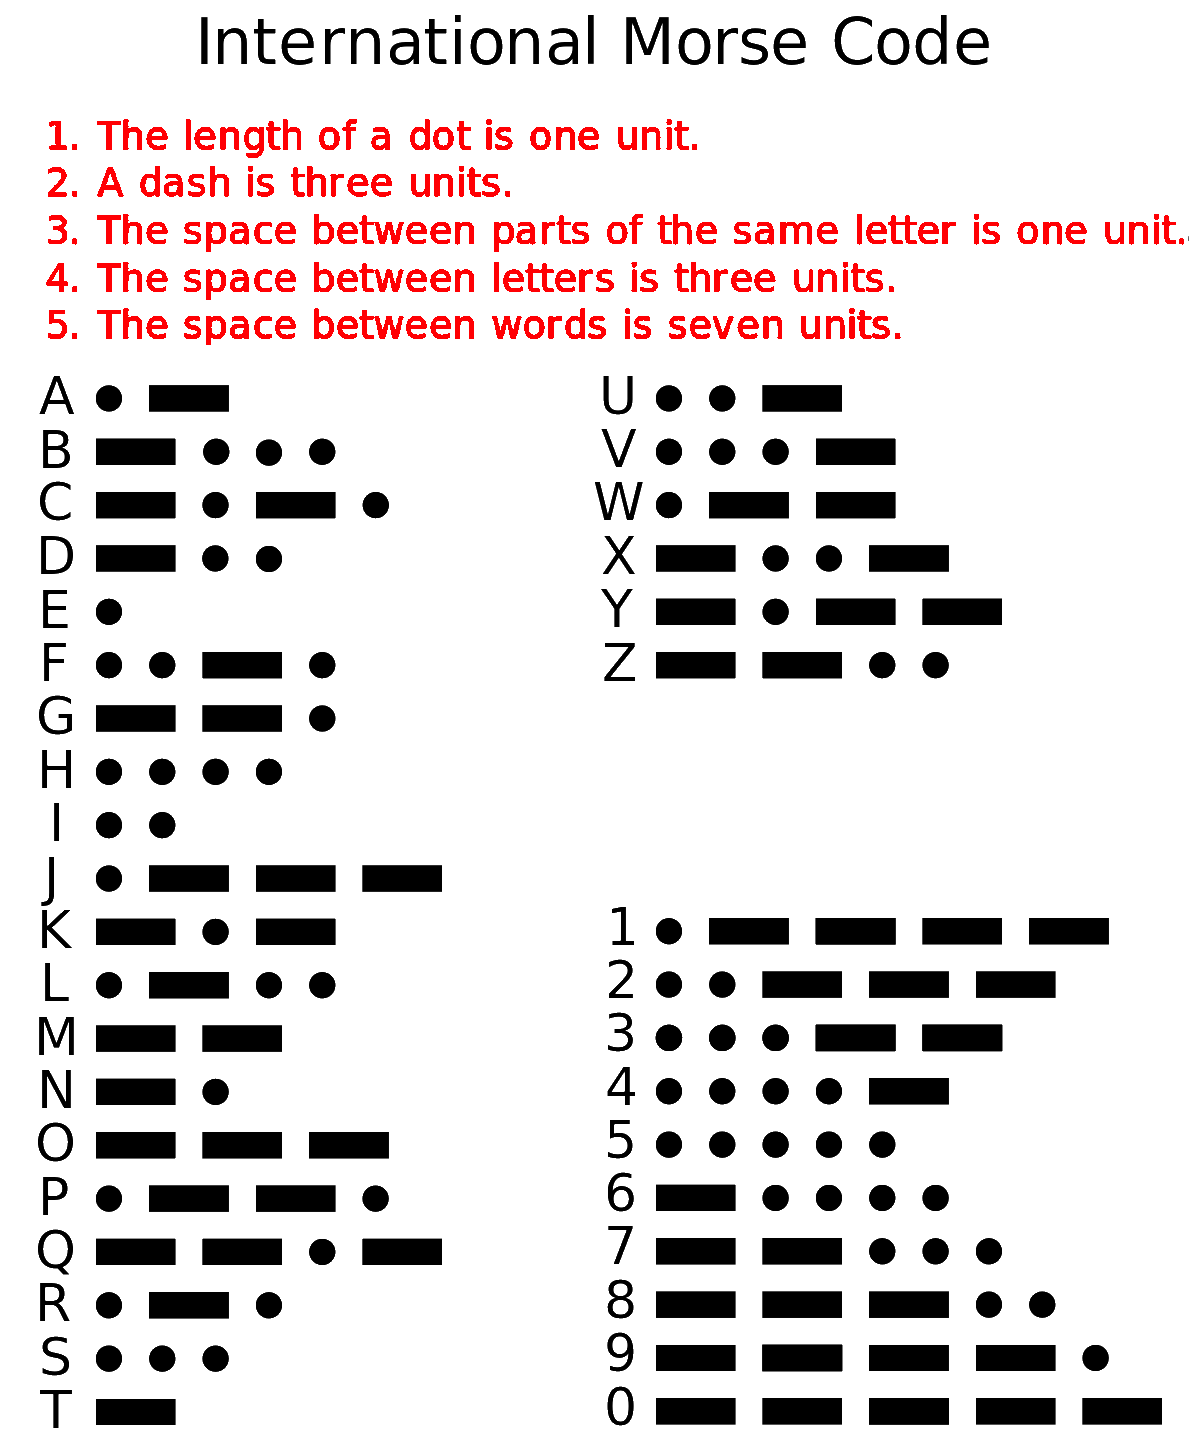
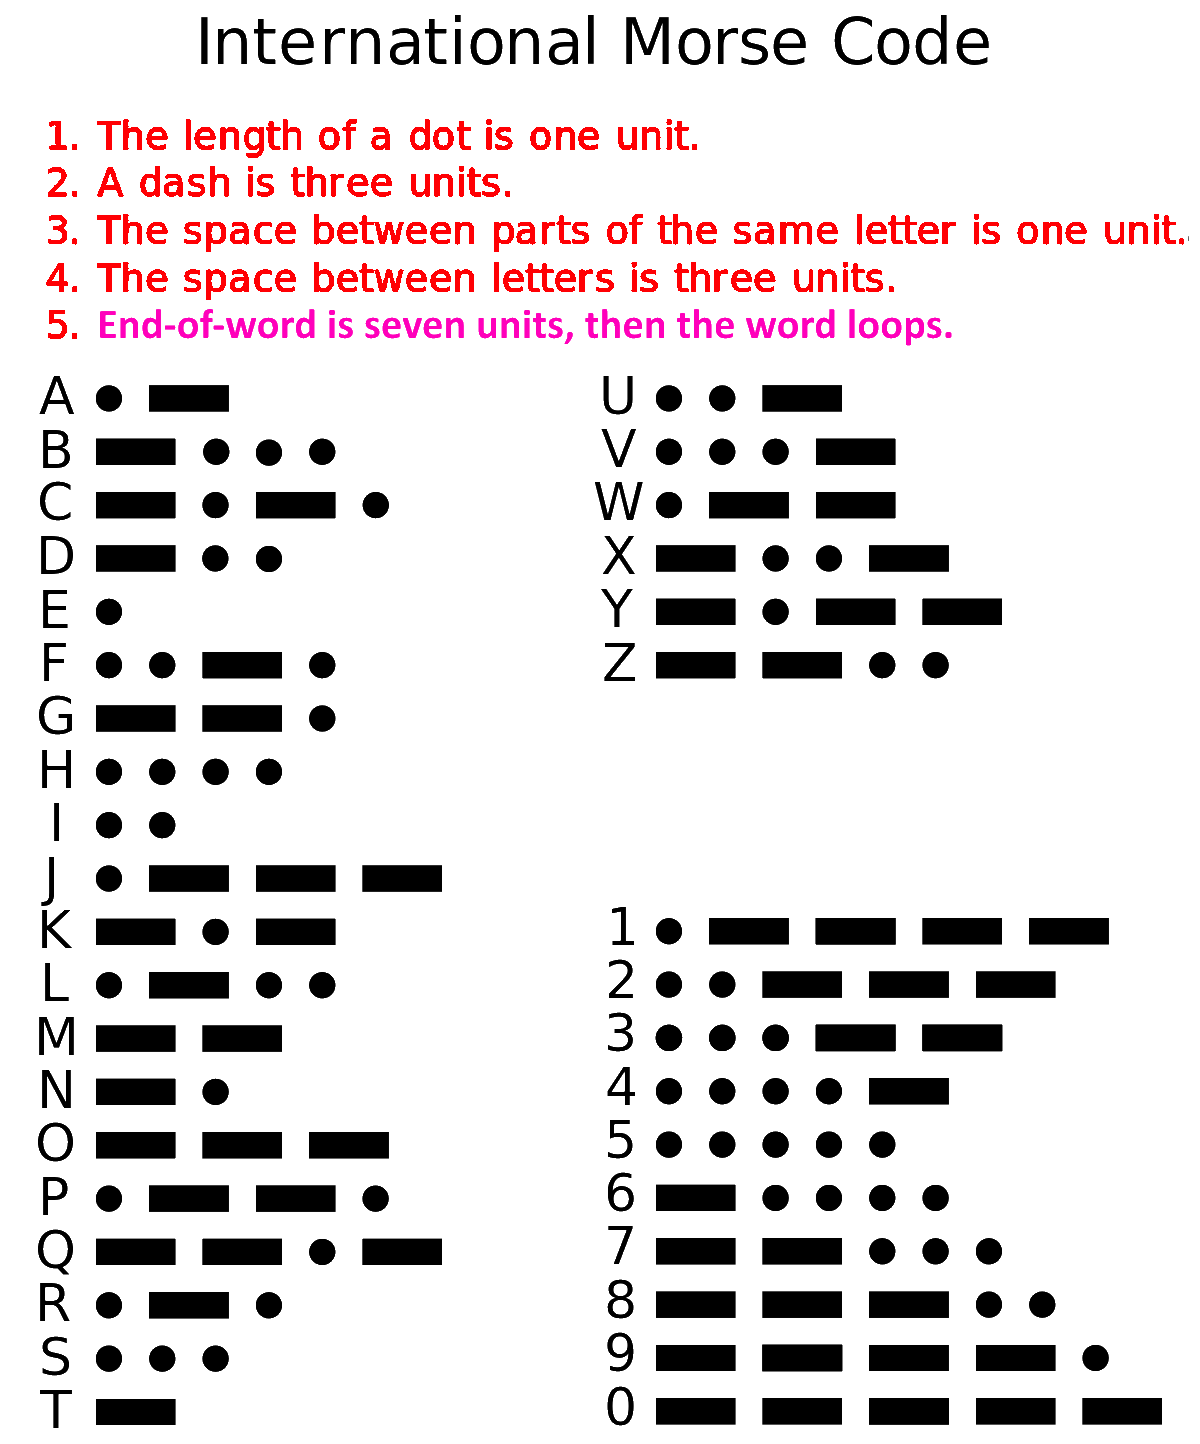
Update Morse code elements to be clearer
Infographic image changed text + color about purple end-of-word; added off gaps between the purple on; revealed number of letters in each word on the phone screens

Changed region(s): [[0.0617, 0.2181, 0.8017, 0.2493]]

diff --git a/Assets/MorseBlinkLoop.cs b/Assets/MorseBlinkLoop.cs
@@ -41,7 +41,8 @@ public class MorseBlinkLoop : MonoBehaviour
                 case "it":
                     yield return BlinkSequence(blinkerRenderer, blinkMaterialOn, blinkMaterialOff,
                         BLINK_DOT, BLINK_SPACE_LOCAL, BLINK_DOT, BLINK_SPACE_LETTERS,
-                        BLINK_DASH, BLINK_SPACE_REPEAT);
+                        BLINK_DASH,
+                        BLINK_SPACE_LETTERS, BLINK_SPACE_REPEAT, BLINK_SPACE_LETTERS);
                     break;
 
                 case "city":
@@ -49,7 +50,8 @@ public class MorseBlinkLoop : MonoBehaviour
                         BLINK_DASH, BLINK_SPACE_LOCAL, BLINK_DOT, BLINK_SPACE_LOCAL, BLINK_DASH, BLINK_SPACE_LOCAL, BLINK_DOT, BLINK_SPACE_LETTERS,
                         BLINK_DOT, BLINK_SPACE_LOCAL, BLINK_DOT, BLINK_SPACE_LETTERS,
                         BLINK_DASH, BLINK_SPACE_LETTERS,
-                        BLINK_DASH, BLINK_SPACE_LOCAL, BLINK_DOT, BLINK_SPACE_LOCAL, BLINK_DASH, BLINK_SPACE_LOCAL, BLINK_DASH, BLINK_SPACE_REPEAT);
+                        BLINK_DASH, BLINK_SPACE_LOCAL, BLINK_DOT, BLINK_SPACE_LOCAL, BLINK_DASH, BLINK_SPACE_LOCAL, BLINK_DASH,
+                        BLINK_SPACE_LETTERS, BLINK_SPACE_REPEAT, BLINK_SPACE_LETTERS);
                     break;
 
                 case "train":
@@ -58,7 +60,8 @@ public class MorseBlinkLoop : MonoBehaviour
                         BLINK_DOT, BLINK_SPACE_LOCAL, BLINK_DASH, BLINK_SPACE_LOCAL, BLINK_DOT, BLINK_SPACE_LETTERS,
                         BLINK_DOT, BLINK_SPACE_LOCAL, BLINK_DASH, BLINK_SPACE_LETTERS,
                         BLINK_DOT, BLINK_SPACE_LOCAL, BLINK_DOT, BLINK_SPACE_LETTERS,
-                        BLINK_DASH, BLINK_SPACE_LOCAL, BLINK_DOT, BLINK_SPACE_REPEAT);
+                        BLINK_DASH, BLINK_SPACE_LOCAL, BLINK_DOT,
+                        BLINK_SPACE_LETTERS, BLINK_SPACE_REPEAT, BLINK_SPACE_LETTERS);
                     break;
 
                 default:
@@ -75,7 +78,7 @@ public class MorseBlinkLoop : MonoBehaviour
     {
         for (int i = 0; i < durations.Length; i++)
         {
-            if (i == durations.Length - 1) blinkerRenderer.material = blinkMaterialEnd;
+            if (i == durations.Length - 2) blinkerRenderer.material = blinkMaterialEnd;     // BLINK_SPACE_REPEAT before the loop, now separated with actual blanks
             else blinkerRenderer.material = (i % 2 == 0) ? onMaterial : offMaterial;
             yield return new WaitForSeconds(durations[i]);
         }
